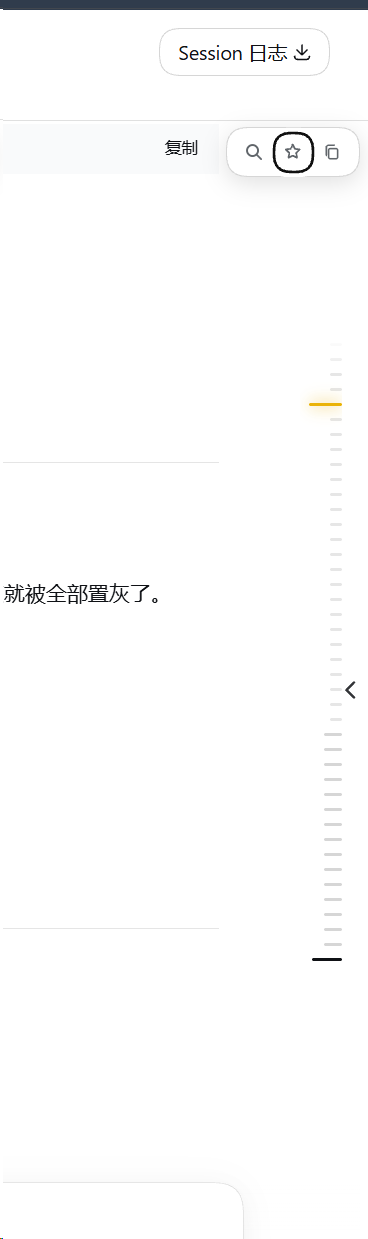
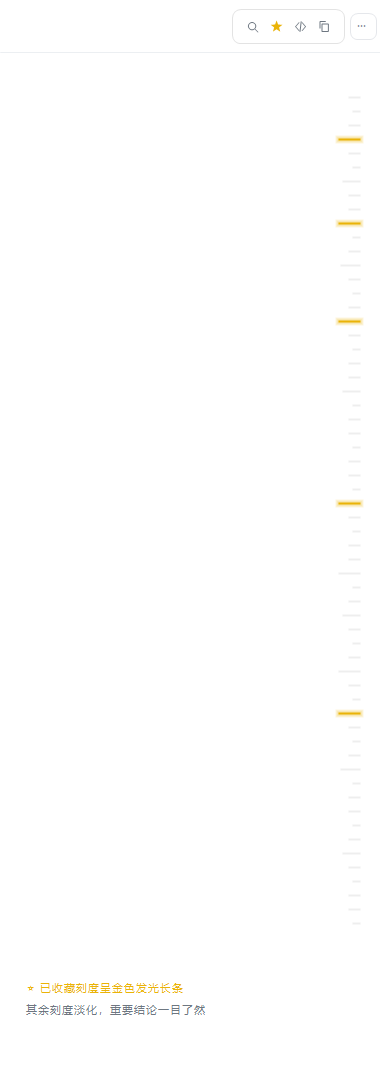
docs: regenerate screenshots to match current UI (hover card + toolbar position); bump 0.4.9

diff --git a/CHANGELOG.md b/CHANGELOG.md
@@ -2,6 +2,15 @@
 
 All notable changes to `dsh-chat-toc` will be documented in this file.
 
+## [0.4.9] - 2026-09-12
+
+### Docs
+- **重新生成全部文档截图**（纯文档版本，无代码改动）：
+  - `docs/toc-pop.png` 此前是一张**普通对话截图，根本没有拍到悬停卡片**，且包含真实聊天文本；现替换为按插件**真实 CSS 尺寸与配色**绘制的脱敏示意图（卡片标题/回复/操作栏 + 右上角四按钮工具条 + 右侧轨道）；
+  - `docs/toc-bar.png` 此前仍是 0.4.3 时期的工具条位置（0.4.6 已把按钮移到模型选择器与 `···` 之间），现按当前 UI 重绘；
+  - 三语 README 的图片缓存参数同步升级为 `?v=0.4.9`，确保 GitHub Camo 代理不再返回旧图。
+- 说明：截图在无浏览器环境下由 GDI+ 程序化绘制（图标全部矢量绘制，未使用 emoji 字体），**不含任何真实对话或业务内容**。
+
 ## [0.4.8] - 2026-09-12
 
 ### Fixed

diff --git a/README.es.md b/README.es.md
@@ -34,11 +34,11 @@ Un plugin de navegación y mejora de índice para la GUI web de DSH: **potencia 
 
 **1. Tarjeta Emergente (Pregunta + Respuesta de IA con acciones de Destacar/Copiar, y Barra Superior):**
 
-![Vista previa de tarjeta emergente](docs/toc-pop.png?v=0.4.3)
+![Vista previa de tarjeta emergente](docs/toc-pop.png?v=0.4.9)
 
 **2. Filtro de Destacados Activo (Marcas destacadas brillan en dorado y el resto se atenúa):**
 
-![Resaltado de marcas](docs/toc-bar.png?v=0.4.3)
+![Resaltado de marcas](docs/toc-bar.png?v=0.4.9)
 
 ## Requisitos
 

diff --git a/README.md b/README.md
@@ -34,11 +34,11 @@ DSH Web GUI 的对话导航与大纲增强插件：**深度赋能官方原生 Tu
 
 **1. 悬停卡片（提问 + AI 核心回复预览，内嵌收藏与复制，右上角扁平工具条）：**
 
-![悬停卡片预览](docs/toc-pop.png?v=0.4.3)
+![悬停卡片预览](docs/toc-pop.png?v=0.4.9)
 
 **2. 开启顶部 ⭐ 收藏过滤（已收藏刻度呈金色粒子长条高亮闪耀，未收藏线条淡化）：**
 
-![全轨收藏高亮](docs/toc-bar.png?v=0.4.3)
+![全轨收藏高亮](docs/toc-bar.png?v=0.4.9)
 
 ## 环境要求
 

diff --git a/README.en.md b/README.en.md
@@ -34,11 +34,11 @@ A native conversation navigation and table-of-contents enhancer for the DSH Web 
 
 **1. Hover Card (Prompt + AI Response Preview with Inlined Star/Copy actions, and the Inline Top Toolbar):**
 
-![Hover Card Preview](docs/toc-pop.png?v=0.4.3)
+![Hover Card Preview](docs/toc-pop.png?v=0.4.9)
 
 **2. Starred Filter Active (Starred marks shine in golden glow, non-starred marks dim down):**
 
-![Rail Marks Highlight](docs/toc-bar.png?v=0.4.3)
+![Rail Marks Highlight](docs/toc-bar.png?v=0.4.9)
 
 ## Requirements
 
